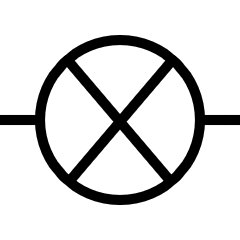
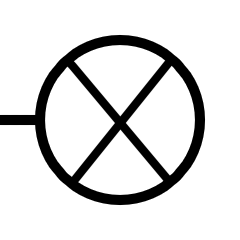
removed ground and added bulb

diff --git a/src/scripts/devices/functions/draw.ts b/src/scripts/devices/functions/draw.ts
@@ -4,7 +4,7 @@ import { isHovering, isHoveringPin } from "../../main/util";
 
 import Pin from "./pin";
 import { Source } from "../source";
-import Ground from "../ground";
+import Bulb from "../bulb";
 
 class Draw {
 
@@ -90,6 +90,8 @@ class Draw {
             ctx.fill();
             this.handlePinHovering(pin);
             this.handlePinSelection(pin);
+
+            ctx.fillText(String(pin.value), pin.x, pin.y - 5); //DEBUG
         });
 
         device.inputPins.forEach((pin: Pin) => {
@@ -99,6 +101,8 @@ class Draw {
             ctx.fill();
             this.handlePinHovering(pin);
             this.handlePinSelection(pin);
+
+            ctx.fillText(String(pin.value), pin.x, pin.y - 5); //DEBUG
         });
     }
 
@@ -122,13 +126,11 @@ class Draw {
         this.drawPins(device);
     }
 
-    ground(device: Ground) {
+    bulb(device: Bulb) {
+        ctx.drawImage(SPRITES[DEVICE.BULB], device.x, device.y, deviceSize, deviceSize);
 
         this.handleDeviceSelection(device);
         this.handleDeviceHovering(device);
-
-        ctx.drawImage(SPRITES[DEVICE.GROUND], device.x, device.y, deviceSize, deviceSize);
-
         this.drawPins(device);
     }
 }

diff --git a/src/scripts/devices/functions/create.ts b/src/scripts/devices/functions/create.ts
@@ -1,14 +1,12 @@
-import { CIRCUIT, WORLD, deviceSize } from "../../main/setup";
+import { CIRCUIT, deviceSize } from "../../main/setup";
 import Pin from "./pin";
 
 import { Source } from "../source";
-import Ground from "../ground";
+import Bulb from "../bulb";
 
 class Create {
     source() {
         const s: Source = new Source();
-        s.x = WORLD.camera.x;
-        s.y = WORLD.camera.y;
 
         const outputPin = new Pin(s, deviceSize + 5, deviceSize / 2);
 
@@ -17,16 +15,14 @@ class Create {
         CIRCUIT.devices.push(s);
     }
 
-    ground() {
-        const g: Ground = new Ground();
-        g.x = WORLD.camera.x;
-        g.y = WORLD.camera.y;
+    bulb() {
+        const b: Bulb = new Bulb();
 
-        const outputPin = new Pin(g, deviceSize / 2, -5);
+        const inputPin = new Pin(b, 0, deviceSize / 2);
 
-        g.outputPins.push(outputPin);
+        b.inputPins.push(inputPin);
 
-        CIRCUIT.devices.push(g);
+        CIRCUIT.devices.push(b);
     }
 }
 

diff --git a/src/scripts/main/script.ts b/src/scripts/main/script.ts
@@ -20,8 +20,8 @@ const drawDevices = () => {
                 case DEVICE.SOURCE:
                     DRAW.source(device);
                     break;
-                case DEVICE.GROUND:
-                    DRAW.ground(device);
+                case DEVICE.BULB:
+                    DRAW.bulb(device);
                     break;
             }
         }
@@ -35,8 +35,8 @@ const handleDeviceElementClick = (deviceName: DEVICE): void => {
         case DEVICE.SOURCE:
             CREATE.source();
             break;
-        case DEVICE.GROUND:
-            CREATE.ground();
+        case DEVICE.BULB:
+            CREATE.bulb();
             break;
         default:
             console.error(`Device name not recognized: ${deviceName}`);

diff --git a/src/scripts/main/setup.ts b/src/scripts/main/setup.ts
@@ -18,7 +18,6 @@ enum MODE {
 
 enum DEVICE {
     SOURCE = "Source",
-    GROUND = "Ground",
     BULB = "Bulb",
     SWITCH = "Switch",
     AND = "And Gate",
@@ -64,16 +63,12 @@ const DEVICES = [
         img: "./src/assets/source.png",
     },
     {
-        name: DEVICE.GROUND,
-        img: "./src/assets/ground.png",
+        name: DEVICE.SWITCH,
+        img: "../src/assets/switch.png",
     },
     {
         name: DEVICE.BULB,
         img: "../src/assets/bulb.png",
-    },
-    {
-        name: DEVICE.SWITCH,
-        img: "../src/assets/switch.png",
     },
     {
         name: DEVICE.AND,

diff --git a/src/scripts/devices/bulb.ts b/src/scripts/devices/bulb.ts
@@ -1,0 +1,10 @@
+import Device from "./device";
+import { DEVICE, WORLD } from "../main/setup";
+
+class Bulb extends Device {
+    constructor() {
+        super(WORLD.camera.x, WORLD.camera.y, DEVICE.BULB);
+    }
+}
+
+export default Bulb;
